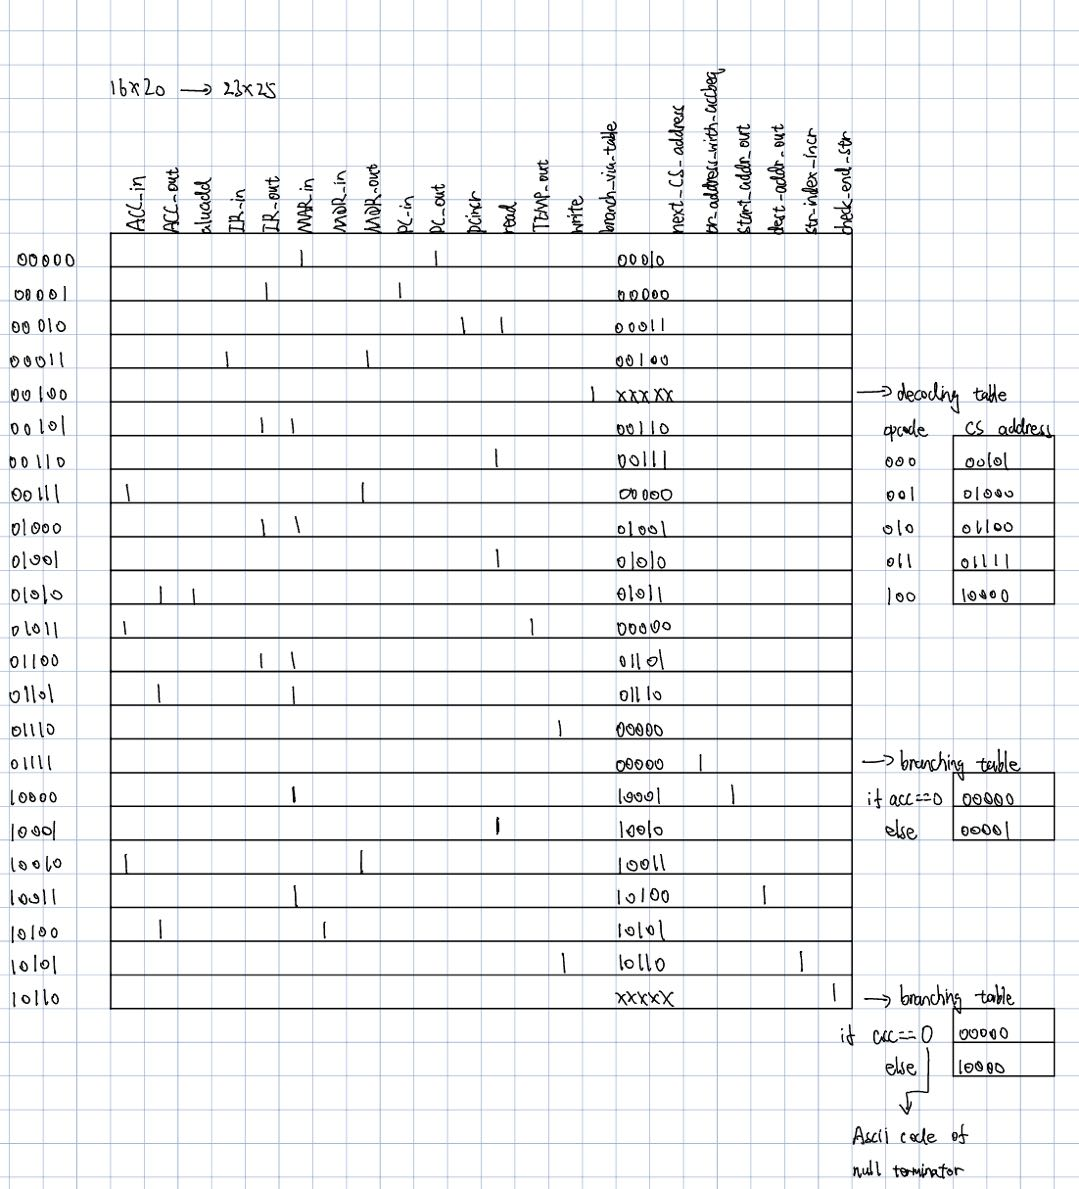
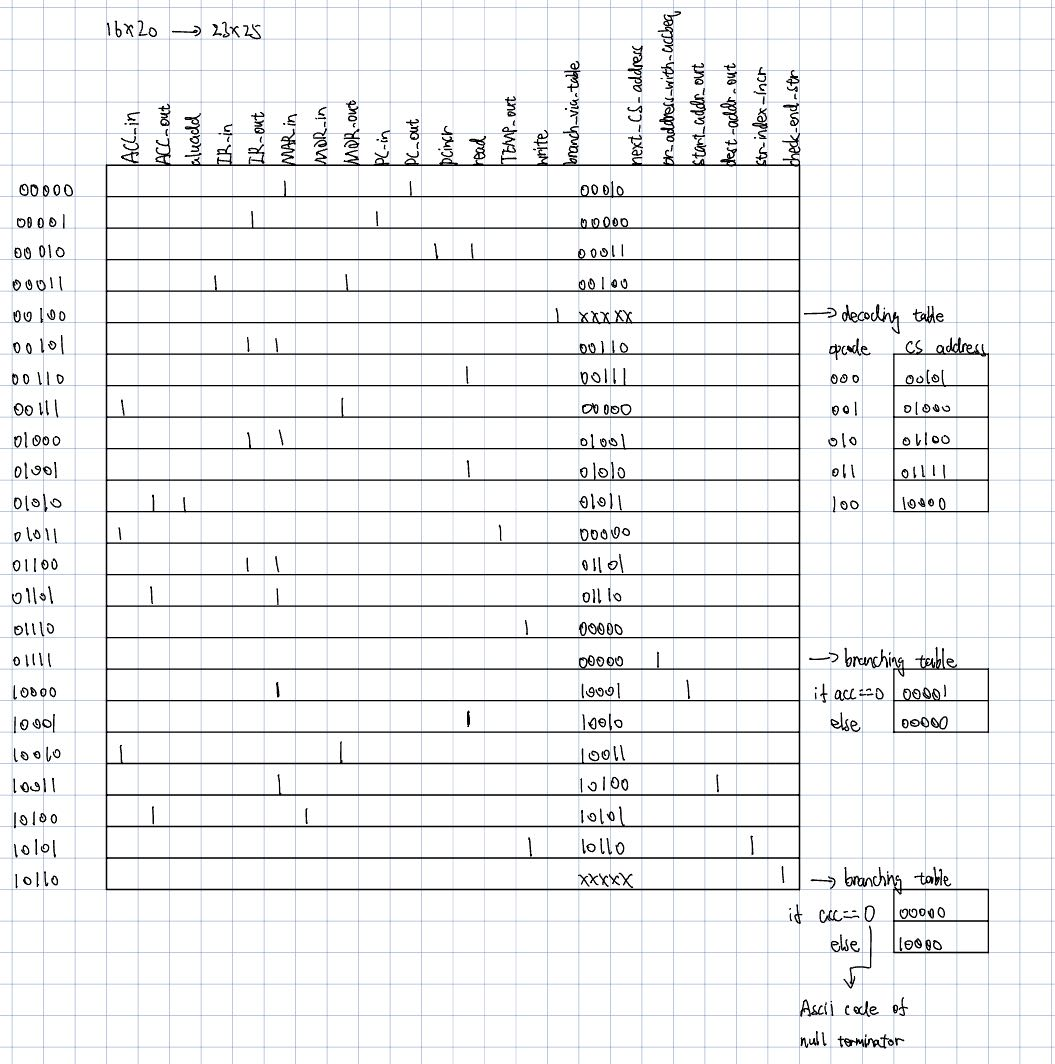
modify markdown & controlstore jpg

Changed region(s): [[0.0, 0.0, 1.0, 0.9925]]

diff --git a/five_instr_with strcpy/acc-multi-microcode_with_strcpy.py b/five_instr_with strcpy/acc-multi-microcode_with_strcpy.py
@@ -210,7 +210,7 @@ with pyrtl.conditional_assignment:
         pc.next |= bus
 
 # write out to memory
-memory[mar[0:8]] <<= pyrtl.MemBlock.EnabledWrite(mdr, write)
+memory[mar] <<= pyrtl.MemBlock.EnabledWrite(mdr, write)
 
 # reset step counter
 with pyrtl.conditional_assignment:
@@ -228,7 +228,7 @@ sim_trace = pyrtl.SimulationTrace()
 
 # Initialize the i_mem with your instructions.
 i_mem_init = {}
-with open('test-acc1_strcpy.txt', 'r') as fin:
+with open('test-acc4.txt', 'r') as fin:
     i = 0
     for line in fin.readlines():
         i_mem_init[i] = int(line, 16)
@@ -242,7 +242,7 @@ sim = pyrtl.Simulation(tracer=sim_trace, memory_value_map={
 })
 
 # Run for an arbitrarily large number of cycles.
-for cycle in range(22):
+for cycle in range(134):
     sim.step({})
 
 # Use render_trace() to debug if your code doesn't work.
@@ -300,10 +300,10 @@ print(sim.inspect_mem(control_store))
 # print("passed!")
 
 # Test Case: test-acc1_strcpy.txt; num_cycle=22
-assert(sim.inspect_mem(memory)[0] == 0xabab)
-assert(sim.inspect_mem(memory)[1] == 0x0)
-assert(sim.inspect(ir) == 0x0)
-print("passed!")
+# assert(sim.inspect_mem(memory)[0] == 0xabab)
+# assert(sim.inspect_mem(memory)[1] == 0x0)
+# assert(sim.inspect(ir) == 0x0)
+# print("passed!")
 
 
 
@@ -316,4 +316,21 @@ print("passed!")
 # assert(sim.inspect_mem(memory)[13] == 0x0000)
 # assert(sim.inspect(ir) == 0x1234)
 # print("passed!")
+
+# Test Case: test-acc3.txt; num_cycle=78
+# assert(sim.inspect_mem(memory)[5] == 0x01e9)
+# assert(sim.inspect_mem(memory)[6] == 0x0000)
+# assert(sim.inspect(acc) == 0x0901)
+# print("passed!")
+
+# Test Case: test-acc4.txt; num_cycle=134
+assert(sim.inspect_mem(memory)[7] == 0x0001)
+assert(sim.inspect_mem(memory)[8] == 0x0001)
+assert(sim.inspect_mem(memory)[9] == 0x0daa)
+assert(sim.inspect_mem(memory)[10] == 0x0200)
+assert(sim.inspect_mem(memory)[11] == 0x0001)
+assert(sim.inspect_mem(memory)[12] == 0x0000)
+assert(sim.inspect_mem(memory)[13] == 0x0702)
+assert(sim.inspect(acc) == 0x0001)
+print("passed!")
 

diff --git a/README.md b/README.md
@@ -57,8 +57,7 @@ clock cycle   CSAR    control signals                             next addr
 	a strcpy instruction causes a branch to 10000 for cycle 4: (NEW)
 	  4     10000    start_addr_out, MAR_in                        10001
 	  5     10001    read                                          10010
-	  6     10010    MDR_out, ACC_in                               10011 
-      
+	  6     10010    MDR_out, ACC_in                               10011   
       7     10011    dest_addr_out, MAR_in                         10100
       8     10100    ACC_out, MDR_in                               10101
       9     10101    write, str_index_incr                         10110
@@ -92,7 +91,8 @@ clock cycle   CSAR    control signals                             next addr
 	  may either be untaken, in which case control returns to the start
 	  of the next macroinstruction fetch at address 0000:
 
-	  4     01111    or_address_with_acceq0 (yields jump to 0000)  00000
+	  4     01111    or_address_with_acceq0  if (acc==0):          00001
+	                                         else:                 00000
 ```
 
 ## Datapath

diff --git a/five_instr_with strcpy/Details about Strcpy.md b/five_instr_with strcpy/Details about Strcpy.md
@@ -107,7 +107,6 @@ clock cycle   CSAR    control signals                             next addr
 	  4     10000    start_addr_out, MAR_in                        10001
 	  5     10001    read                                          10010
 	  6     10010    MDR_out, ACC_in                               10011 
-      
       7     10011    dest_addr_out, MAR_in                         10100
       8     10100    ACC_out, MDR_in                               10101
       9     10101    write, str_index_incr                         10110
@@ -141,7 +140,8 @@ clock cycle   CSAR    control signals                             next addr
 	  may either be untaken, in which case control returns to the start
 	  of the next macroinstruction fetch at address 0000:
 
-	  4     01111    or_address_with_acceq0 (yields jump to 0000)  00000
+	  4     01111    or_address_with_acceq0   if (acc==0):         00001
+	                                          else:                00000
 ```
 
 
